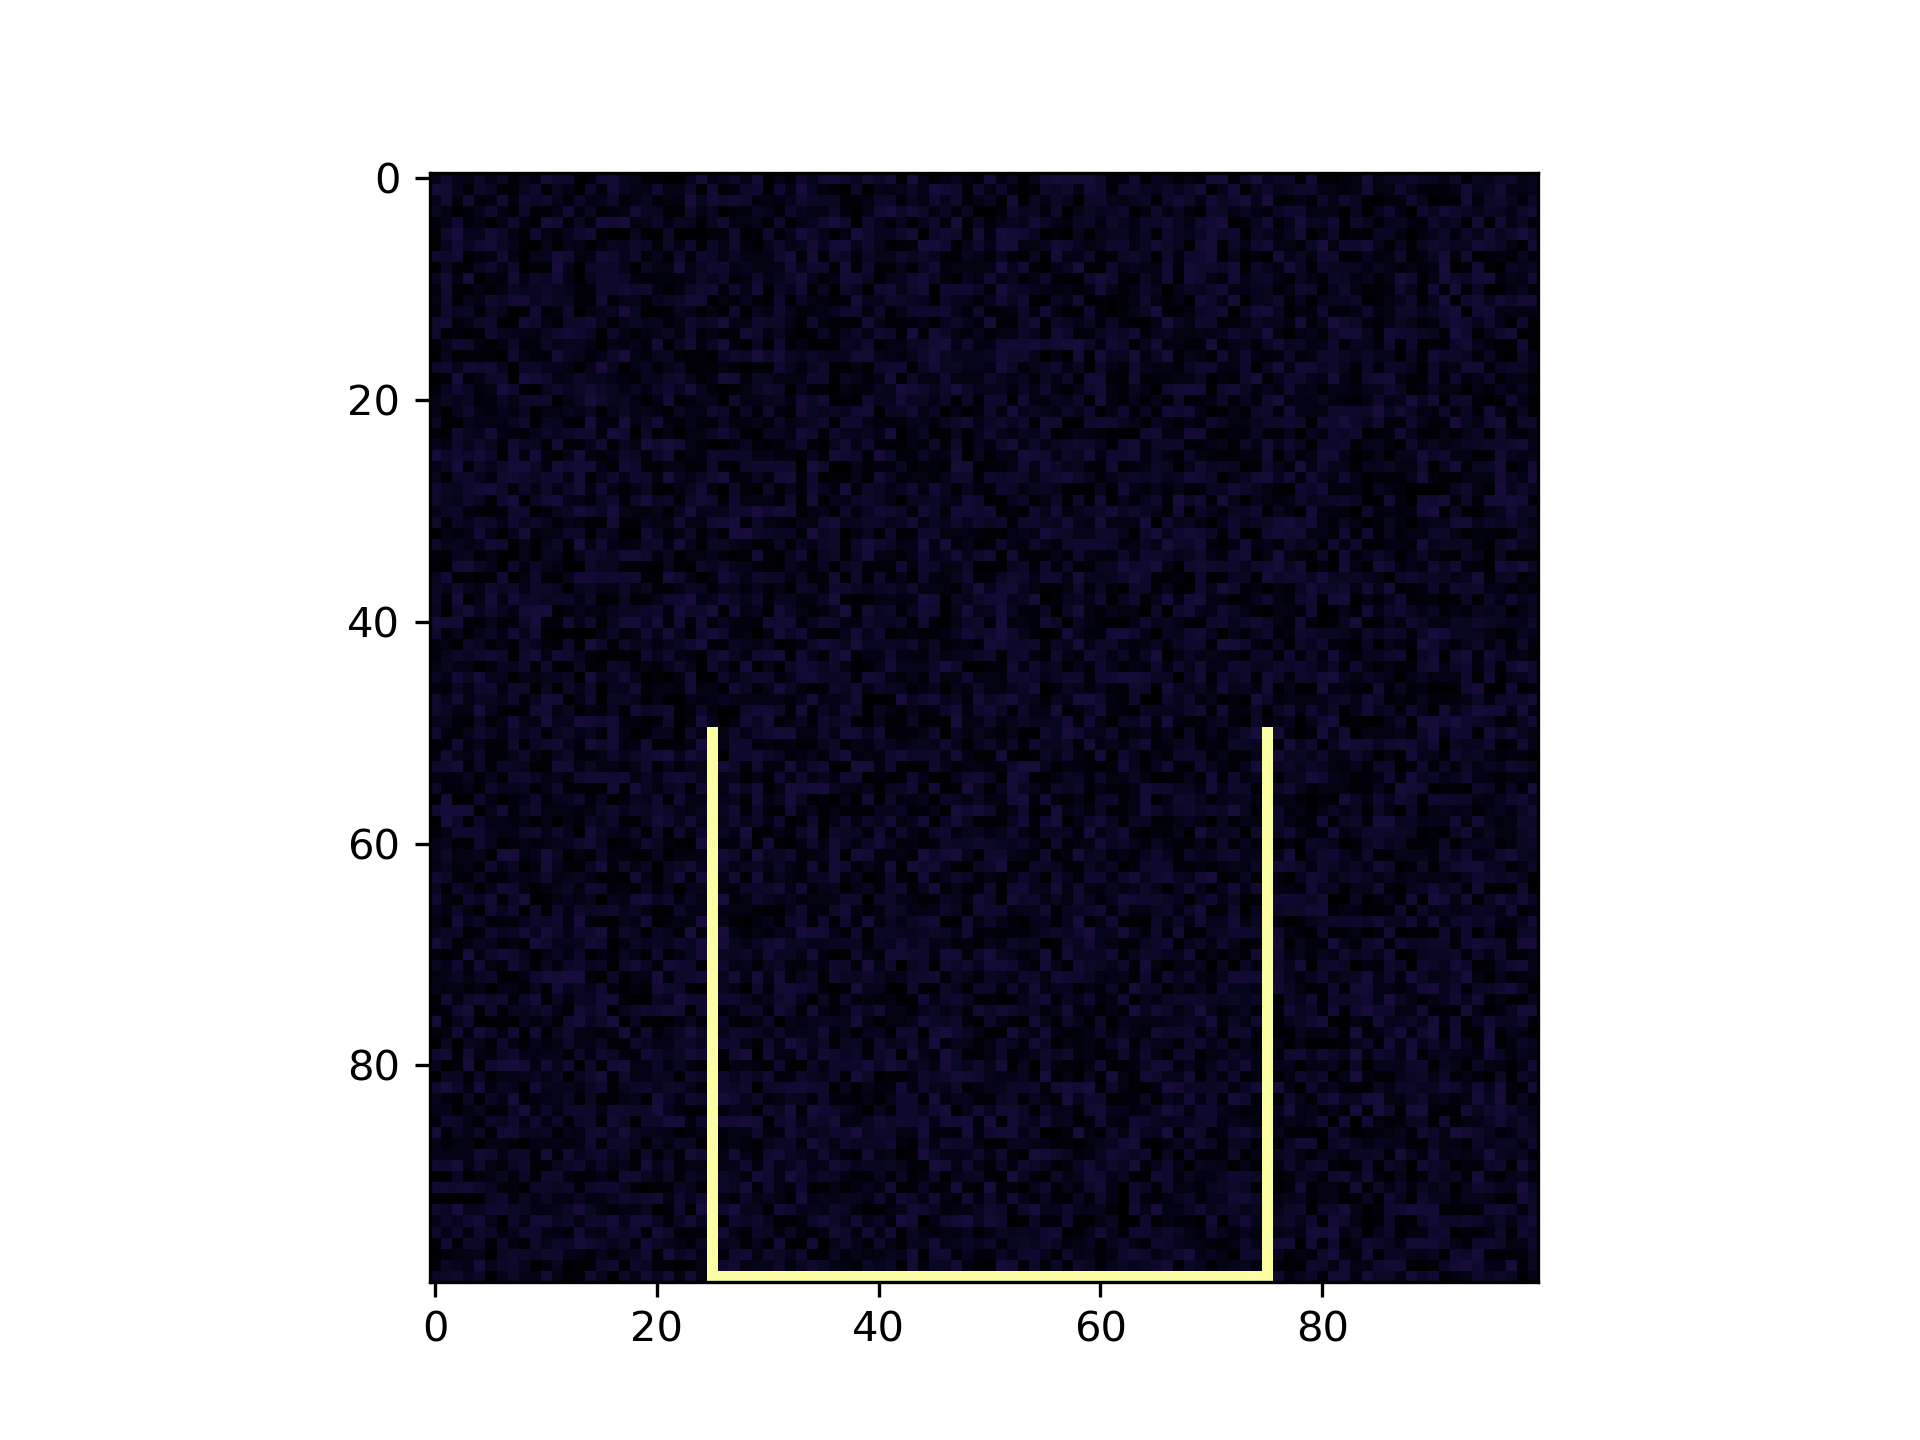
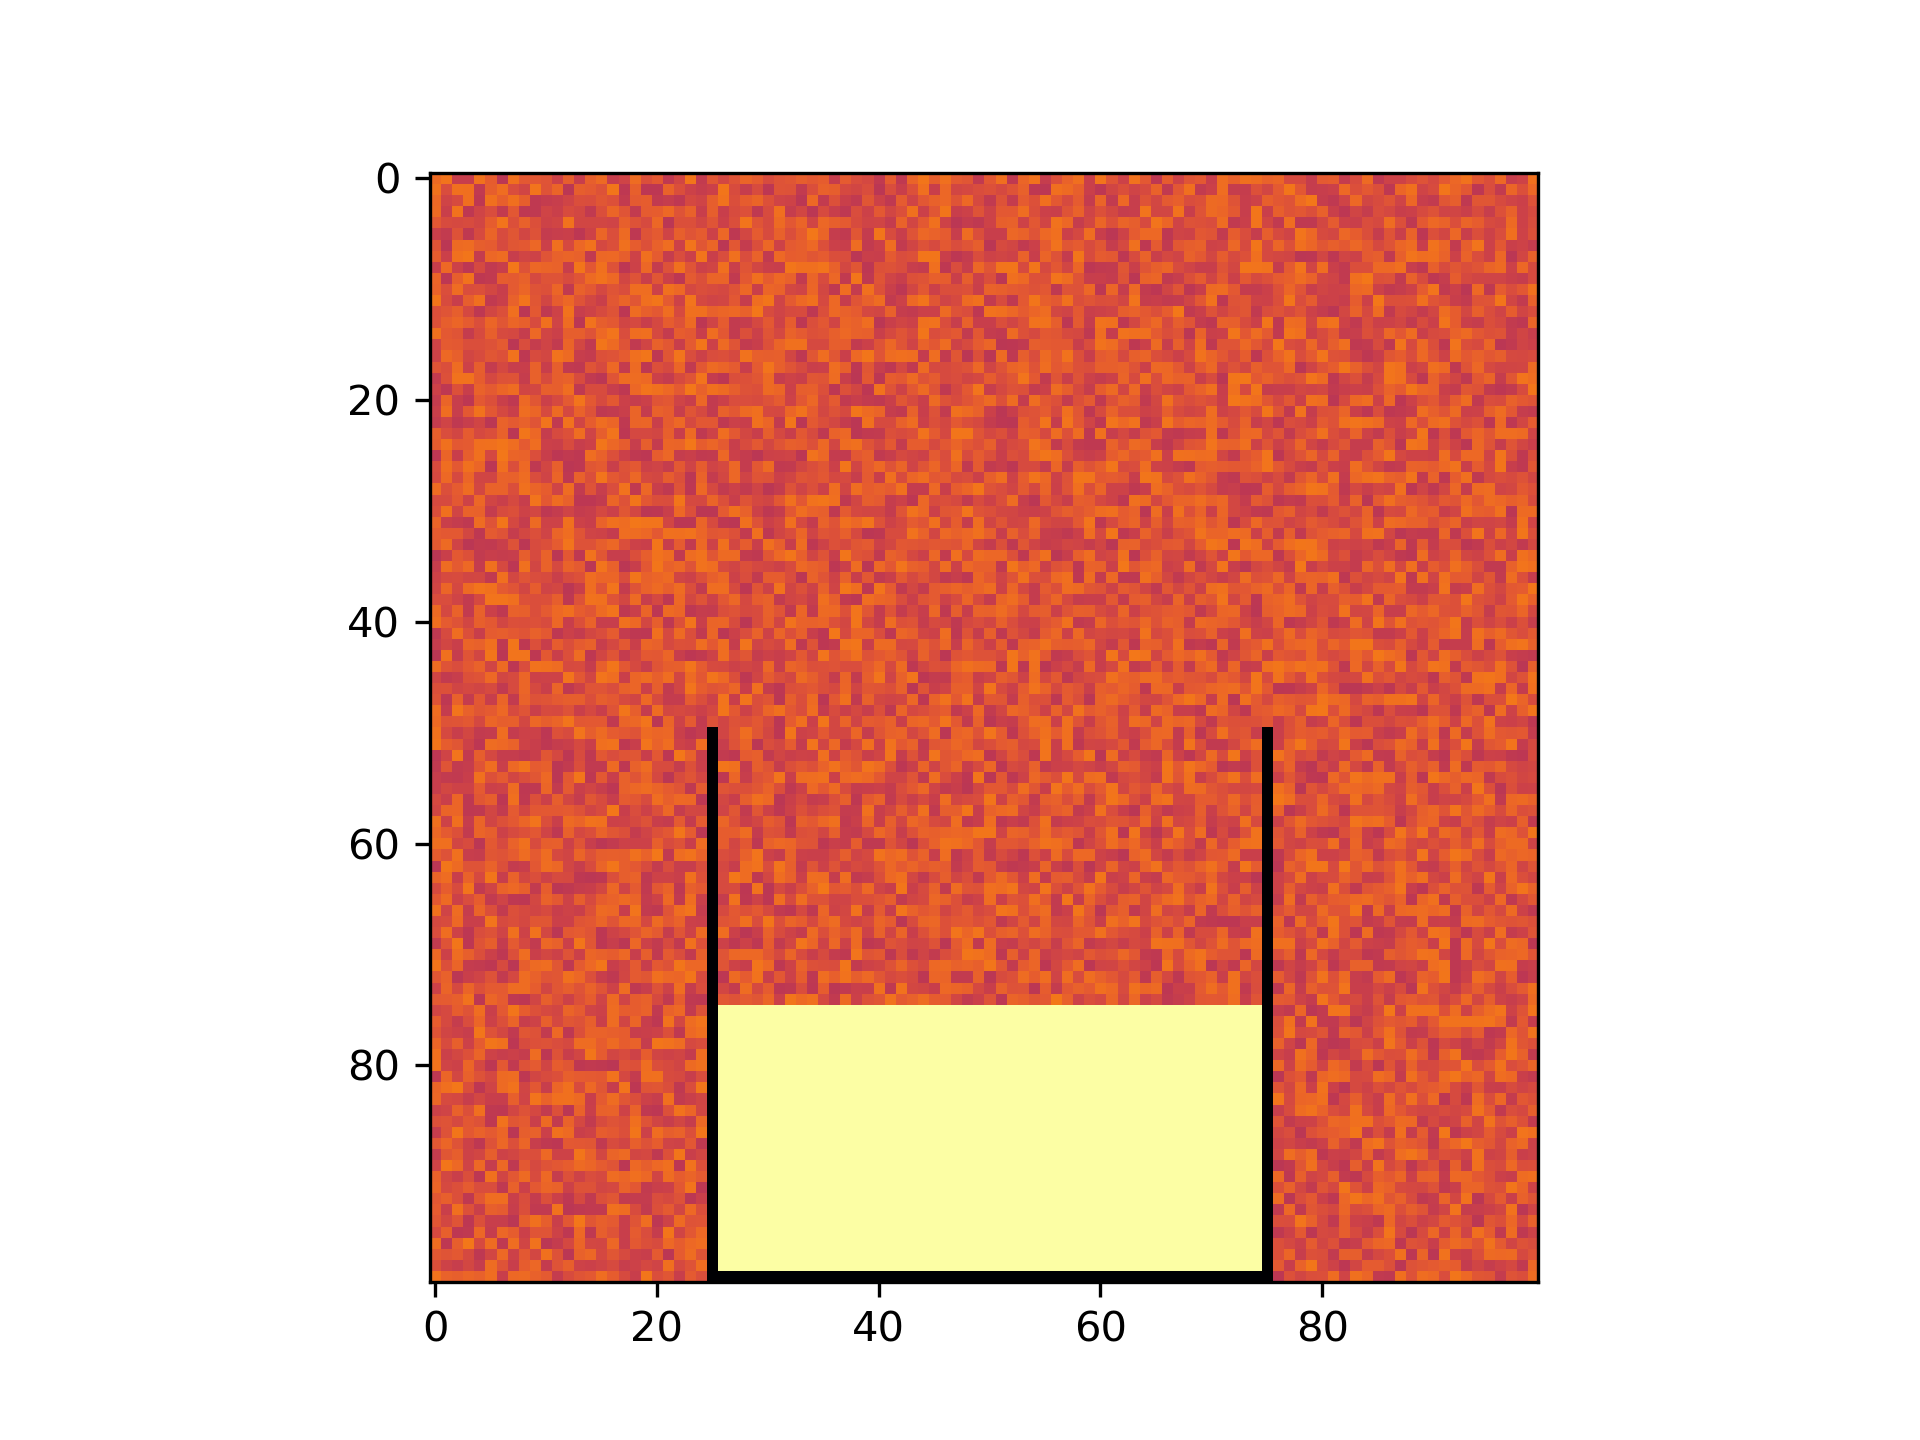
filling now works

diff --git a/physics.py b/physics.py
@@ -3,14 +3,19 @@ import numpy as np
 # set up environmental raster
 def environmental(resX,resY):
 
-    '''creates a raster of size resX * resY, containing random values between 0 and 1'''
+    '''creates a raster of size resX * resY, containing random values between 0 and 1
 
+    resX, resY = pixel resolution of raster
+    pre_fill = boolean; if True a container has been filled'''
     #sets up random raster conaining values between 0 and 1
-    env_raster = np.array(np.random.random((resX, resY)))
-
-    return env_raster
 
 
+    temperature_raster = np.array(np.random.uniform(low=15,high=25,size=(resX, resY)))
+
+    return temperature_raster
+
+#---------------------------------------------------------
+#                       CONTAINER STUFF
 # set up container
 def addContainer(raster):
 
@@ -64,26 +69,127 @@ def addContainer(raster):
                  'container_tr':container_tr}
     return container
 
+#pre-fill container
+def containerPreFill(container, raster, resX, resY, filling_height, fill_temp):
+
+    '''pre-fills the container with fluid.
+
+    container = dictionary of corners of container
+    raster = raster to do operation on
+    resX, resY = pixel resolution of raster
+    fill_temp = temperature of filled in liquid'''
 
 
-def containerPreFill(container):
 
-    '''pre-fills the container with fluid'''
+    #set up fill coordinates
+    fill_bl = [(container['container_bl'][0])+1,(container['container_bl'][1])+1]
+    fill_tl = [(container['container_tl'][0])+1,(container['container_tl'][1])+1]
+    fill_br = [(container['container_br'][0])-1,(container['container_br'][1])-1]
+    fill_tr = [(container['container_tr'][0])-1,(container['container_tr'][1])-1]
 
-    filling_height = 0.75
-    color_value = -10
+    fill = [fill_bl,fill_tl,fill_br,fill_tr]
+    print("filling coordinates: {}".format(fill))
+
+    #fill container
+    x =0
+
+    #iterate through rows
+    while x < resX:
+        y = 0
+        #iterate through columns
+        while y < resY:
+
+            try:
+                #only do this if the selected pixel is within the container
+                if x >= fill_bl[0] and x <= fill_br[0]:
+                    if y >= resY*filling_height and y <= resY-2:
+                        print("now filling pixel at {},{}".format(x, y))
+                        raster[y, x] = fill_temp
 
 
+            except:
+                # this is to prevent the program from collapsing in case one of the above conditions tries to
+                # access a pixel outside of the range of a numpy array, like a pixel with index particles[-10,
+                # -10] in that case the program should just pass the condition and move on
+                print("Pixel out of bounds of np array!")
+                pass
 
 
+            y+=1
 
-    pass
+        x += 1
+
+    #output raster with pre-filled container
+    return raster
 
 def containerFill(container, temperature=20):
 
     '''fills a container with a liquid at specified temperature (degrees celsius). pours from pixel at (x=xmax*0.5,y=0)'''
 
     pass
+
+#---------------------------------------------------------
+#                       PHYSICS STUFF
+
+def updraftAndDiffusion():
+
+    """Calculates how much the liquid rises and diffuses energy
+    because of its temperature.
+
+    - based on input raster with temperatures """
+    pass
+
+def gravity():
+    """introduces gravity for liquid in container"""
+
+
+    pass
+
+def materials(in_raster, resX, resY, fill_temp):
+    '''Gets information on materials from initial raster.
+
+    0 == Air
+
+    2 == Container
+
+    3 == Pre-fill Liquid
+
+    '''
+
+
+    materials_raster = np.zeros((resX,resY))
+    print(materials_raster)
+    x=0
+    try:
+        while x <= resX:
+
+            y=0
+
+            while y <= resY:
+
+                pixel = in_raster[x,y]
+
+                if pixel == -10:
+                    materials_raster[x,y] = 2
+
+                elif pixel == fill_temp:
+                    materials_raster[x,y] = 3
+                else:
+                    pass
+
+
+
+                y += 1
+
+            x += 1
+    except:
+        print("Tried to access pixel out of bounds!")
+
+#---------------------------------------------------------
+
+#---------------------------------------------------------
+
+#---------------------------------------------------------
 
 
 

diff --git a/visualizer.py b/visualizer.py
@@ -1,6 +1,6 @@
 import matplotlib.pyplot as plt
 import imageio
-from convectionModel.physics import environmental, addContainer
+from convectionModel.physics import *
 
 
 # General Information:
@@ -15,37 +15,70 @@ from convectionModel.physics import environmental, addContainer
 resX = 100
 resY = resX
 dpi = 300
-timesteps = range(10)
+timesteps = 10
 
-
+# fill temperature and height of pre-filled liquid
+pre_fill = True
+fill_temp = 40
+filling_height = 0.75
 
 # set up list to convert output to gif
 out_rasters = []
-gif_duration = None
+gif_duration = 0.5 #second(s)
 
 
-for step in timesteps:
+#set up iteration
+iteration = 0
 
-    # set up raster of environmental noise
-    raster = environmental(resX,resY)
+while iteration < timesteps:
 
-    # add container
-    container = addContainer(raster)
-    print(container)
+    # set up raster of environmental air temperature
+    if pre_fill== True and iteration == 0:
+        raster = environmental(resX, resY)
+        # add container
+        container = addContainer(raster)
+
+        # pre-fill container
+        if pre_fill == True and iteration == 0:
+            temperature_raster = containerPreFill(container, raster, resX, resY, filling_height, fill_temp)
+        else:
+            pass
+
+    elif pre_fill == True and iteration >0:
+        #get materials from initial raster
+        materials = materials(temperature_raster, resX, resY, fill_temp)
+        print(materials)
+        #calculate temperature diffusion and updraft
+
+        # add container
+        container = addContainer(raster)
+
+
+
+
+
+        pass
+
+    else:
+        raster = environmental(resX, resY)
+        # add container
+        container = addContainer(raster)
+
 
     # make sure it can be exported
-    print("iteration number {}".format(step))
-    plt.imshow(raster, cmap='inferno')
+    print("iteration number {}".format(iteration))
+    plt.imshow(temperature_raster, cmap='inferno')
 
 
     #save image at step n
-    filepath = "output/visualizationTest{}.png".format(step)
+    filepath = "output/visualizationTest{}.png".format(iteration)
     plt.savefig(filepath, dpi=dpi)
 
     out_rasters.append(filepath)
 
+    iteration +=1
+
 # create gif from individual timesteps
-print(out_rasters)
 print("creating .gif...")
 
 images = []
